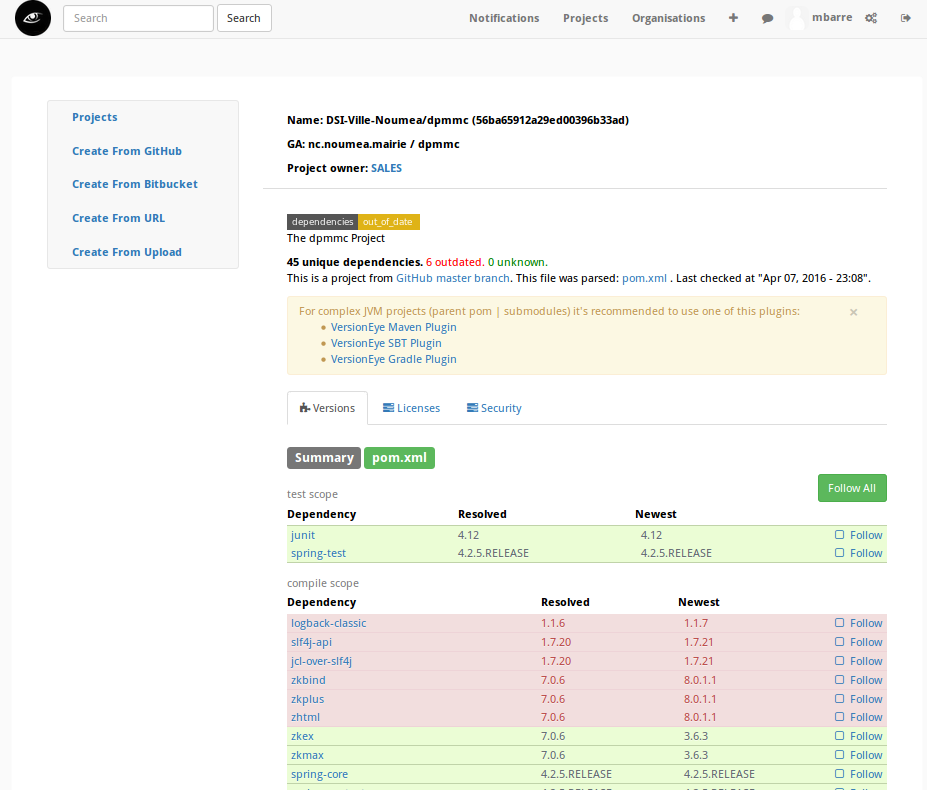
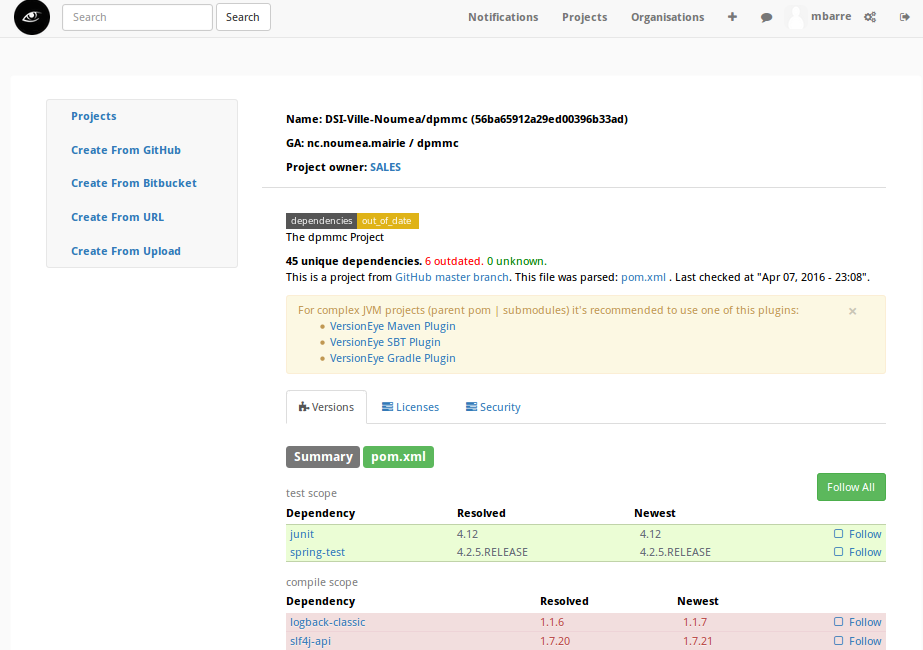
reduce versioneye snapshot size

diff --git a/index.html b/index.html
@@ -749,7 +749,7 @@ notifications:
                     </section>
                     <section data-background="black">
                         <h2>VersionEye</h2>
-                        <img src="img/versioneye.png" alt="VersionEye"/>
+                        <img src="img/versioneye.png" alt="VersionEye" style="width:80%"/>
                     </section>
                     <section data-background="black">
                         <h2>Slack notifications</h2>
